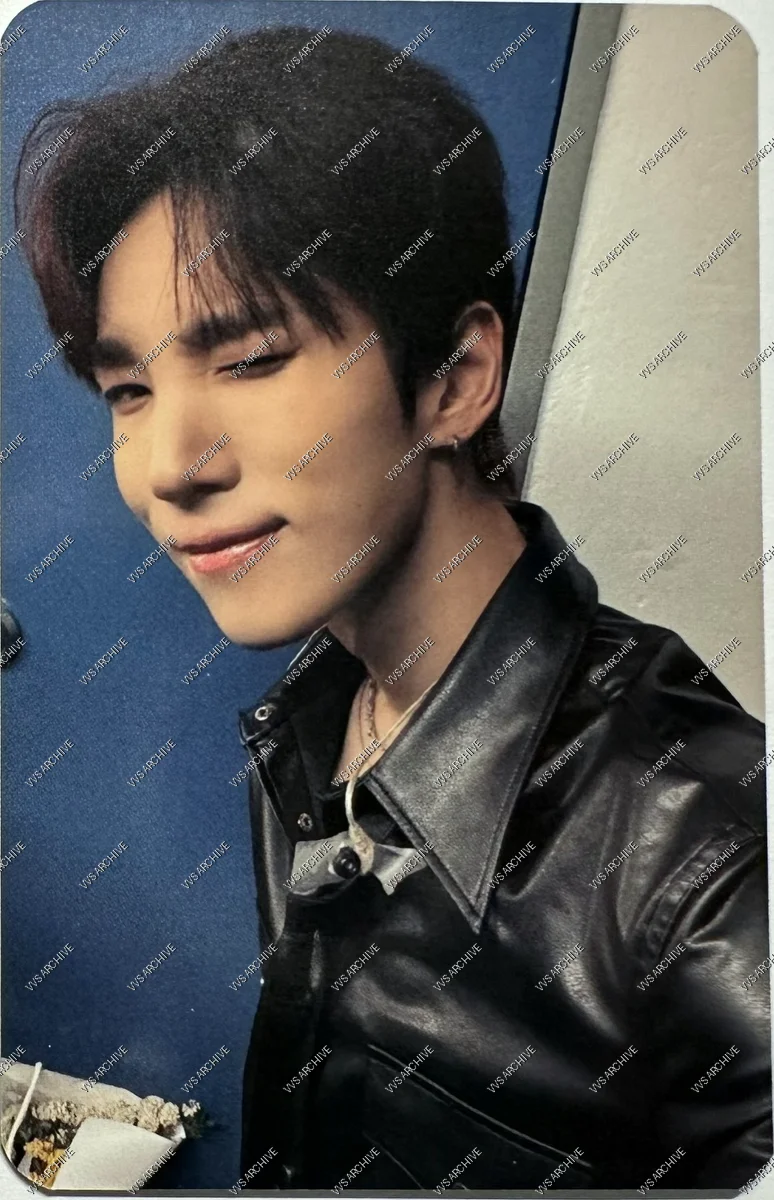
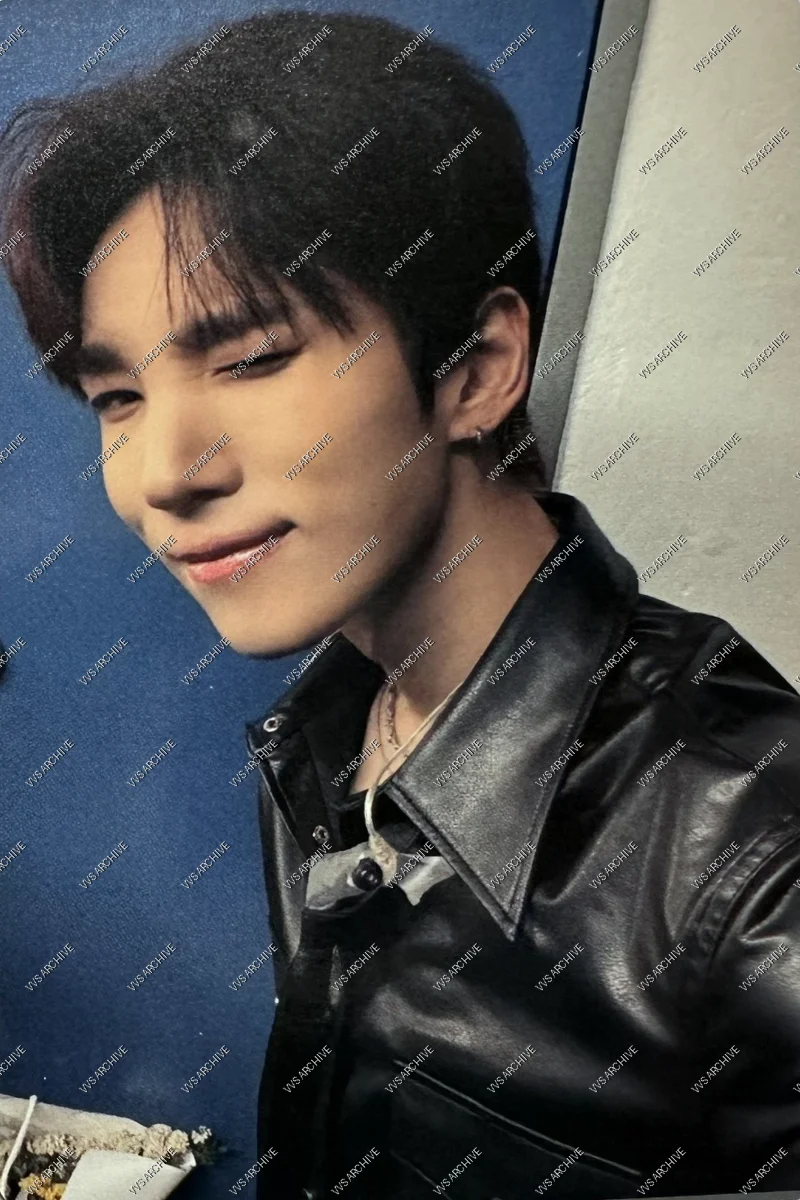
fix dim for watermark

diff --git a/scripts/card_process.py b/scripts/card_process.py
@@ -1,13 +1,10 @@
-import cv2
 import os
+import cv2
 import numpy as np
 from PIL import Image, ImageDraw, ImageFont
 
 TARGET_ASPECT_RATIO = 55.0 / 85.0
-ASPECT_RATIO_TOLERANCE = 0.18
 MIN_AREA_PERCENT = 0.25
-
-
 
 def order_points(pts):
     rect = np.zeros((4, 2), dtype="float32")
@@ -45,7 +42,6 @@ def center_crop_fallback(img):
         return img[offset_y:offset_y + target_h, :]
 
 def apply_white_balance(bgr_img):
-    """Apply simple Gray World white balance algorithm."""
     result = bgr_img.astype(np.float32)
     average_b = np.mean(result[:, :, 0])
     average_g = np.mean(result[:, :, 1])
@@ -58,8 +54,7 @@ def apply_white_balance(bgr_img):
     
     return np.clip(result, 0, 255).astype(np.uint8)
 
-def crop_card(image_path, debug_dir="debug_output"):
-    """Crop photocard using robust contour bounding box."""
+def crop_card(image_path):
     img = cv2.imread(image_path)
     if img is None:
         raise ValueError(f"Unable to read image at: {image_path}")
@@ -70,29 +65,35 @@ def crop_card(image_path, debug_dir="debug_output"):
     gray = cv2.cvtColor(img, cv2.COLOR_BGR2GRAY)
     blurred = cv2.GaussianBlur(gray, (5, 5), 0)
     
-    # 降低門檻或直接用 Otsu 二值化找出卡片主體
     _, thresh = cv2.threshold(blurred, 0, 255, cv2.THRESH_BINARY_INV + cv2.THRESH_OTSU)
+    edged = cv2.Canny(blurred, 30, 150)
+    combined = cv2.bitwise_or(thresh, edged)
     
-    # 閉運算填補卡片內部雜訊
-    kernel = cv2.getStructuringElement(cv2.MORPH_RECT, (7, 7))
-    closed = cv2.morphologyEx(thresh, cv2.MORPH_CLOSE, kernel, iterations=3)
+    kernel = np.ones((5, 5), np.uint8)
+    closed = cv2.morphologyEx(combined, cv2.MORPH_CLOSE, kernel, iterations=3)
     
     contours, _ = cv2.findContours(closed.copy(), cv2.RETR_EXTERNAL, cv2.CHAIN_APPROX_SIMPLE)
     
     card_crop = None
+    
     if contours:
         largest_c = max(contours, key=cv2.contourArea)
-        if cv2.contourArea(largest_c) > (img_area * MIN_AREA_PERCENT):
-            # 取得最小外接矩形（支援旋轉）
-            rect = cv2.minAreaRect(largest_c)
-            box = cv2.boxPoints(rect)
-            box = np.intp(box)
+        if cv2.contourArea(largest_c) > (img_area * 0.15):
+            peri = cv2.arcLength(largest_c, True)
+            approx = cv2.approxPolyDP(largest_c, 0.02 * peri, True)
             
-            warped = four_point_transform(img, box.astype("float32"))
+            if len(approx) == 4:
+                pts = approx.reshape(4, 2).astype("float32")
+            else:
+                rect = cv2.minAreaRect(largest_c)
+                box = cv2.boxPoints(rect)
+                pts = box.astype("float32")
+                
+            warped = four_point_transform(img, pts)
             crop_h, crop_w = warped.shape[:2]
             ratio = min(crop_w, crop_h) / max(crop_w, crop_h)
             
-            if (TARGET_ASPECT_RATIO - 0.25) <= ratio <= (TARGET_ASPECT_RATIO + 0.25):
+            if 0.4 <= ratio <= 0.9:
                 card_crop = warped
 
     if card_crop is None:
@@ -103,15 +104,10 @@ def crop_card(image_path, debug_dir="debug_output"):
         
     return card_crop
 
+def apply_watermark(bgr_image, watermark_text="VVS ARCHIVE"):
+    output_height, output_width = bgr_image.shape[:2]
     
-def apply_watermark(bgr_image, watermark_text="VVS ARCHIVE", output_height=1200):
-    """Apply repeating diagonal watermark to the image."""
-    h, w = bgr_image.shape[:2]
-    output_width = int(output_height * (w / float(h)))
-    resized_bgr = cv2.resize(bgr_image, (output_width, output_height), interpolation=cv2.INTER_LANCZOS4)
-    balanced_bgr = apply_white_balance(resized_bgr)
-    
-    rgb = cv2.cvtColor(balanced_bgr, cv2.COLOR_BGR2RGB)
+    rgb = cv2.cvtColor(bgr_image, cv2.COLOR_BGR2RGB)
     base_img = Image.fromarray(rgb).convert("RGBA")
     watermark_layer = Image.new("RGBA", (output_width, output_height), (0, 0, 0, 0))
     
@@ -145,16 +141,8 @@ def process_card_image(input_path, card_id, output_dir="public/cards"):
     try:
         cropped_bgr = crop_card(input_path)
         balanced_bgr = apply_white_balance(cropped_bgr)
-        
-        # 3. 統一縮放到標準大小（例如固定寬度或長寬，確保後續浮水印比例一致）
-        # 假設這裡將轉為 PIL 進行標準化尺寸調整
-        img_pil = Image.fromarray(cv2.cvtColor(balanced_bgr, cv2.COLOR_BGR2RGB))
-        standard_width = 800  # 請依你的標準卡片寬度調整
-        w_percent = (standard_width / float(img_pil.size[0]))
-        h_size = int(float(img_pil.size[1]) * float(w_percent))
-        resized_pil = img_pil.resize((standard_width, h_size), Image.Resampling.LANCZOS)
-
-        final_pil = apply_watermark(balanced_bgr)
+        standardized_bgr = cv2.resize(balanced_bgr, (800, 1200), interpolation=cv2.INTER_LANCZOS4)
+        final_pil = apply_watermark(standardized_bgr)
         
         os.makedirs(output_dir, exist_ok=True)
         output_path = os.path.join(output_dir, f"{card_id}.webp")
@@ -163,55 +151,3 @@ def process_card_image(input_path, card_id, output_dir="public/cards"):
     except Exception as e:
         print(f"Error processing card image {card_id}: {e}")
         return None
-
-def debug_crop_card(image_path, debug_dir="debug_output"):
-    """暫時的 Debug 函式：輸出邊緣檢測與輪廓抓取的中間過程圖片"""
-    os.makedirs(debug_dir, exist_ok=True)
-    img = cv2.imread(image_path)
-    if img is None:
-        print(f"無法讀取圖片: {image_path}")
-        return
-    
-    h, w = img.shape[:2]
-    img_area = h * w
-    
-    gray = cv2.cvtColor(img, cv2.COLOR_BGR2GRAY)
-    blurred = cv2.GaussianBlur(gray, (5, 5), 0)
-    edged = cv2.Canny(blurred, 30, 120)
-    
-    kernel = cv2.getStructuringElement(cv2.MORPH_RECT, (3, 3))
-    dilated = cv2.dilate(edged, kernel, iterations=2)
-    
-    base_name = os.path.splitext(os.path.basename(image_path))[0]
-    cv2.imwrite(os.path.join(debug_dir, f"{base_name}_gray.jpg"), gray)
-    cv2.imwrite(os.path.join(debug_dir, f"{base_name}_blurred.jpg"), blurred)
-    cv2.imwrite(os.path.join(debug_dir, f"{base_name}_edged.jpg"), edged)
-    cv2.imwrite(os.path.join(debug_dir, f"{base_name}_dilated.jpg"), dilated)
-    
-    contours, _ = cv2.findContours(dilated.copy(), cv2.RETR_EXTERNAL, cv2.CHAIN_APPROX_SIMPLE)
-    contours = sorted(contours, key=cv2.contourArea, reverse=True)
-    
-    debug_contours_img = img.copy()
-    for i, c in enumerate(contours[:5]):  # 繪製前 5 大輪廓
-        area = cv2.contourArea(c)
-        peri = cv2.arcLength(c, True)
-        approx = cv2.approxPolyDP(c, 0.02 * peri, True)
-        
-        # 綠色代表剛好 4 個頂點，紅色代表其他形狀
-        color = (0, 255, 0) if len(approx) == 4 else (0, 0, 255)
-        cv2.drawContours(debug_contours_img, [approx], -1, color, 3)
-        print(f"輪廓 #{i}: 面積={area}, 頂點數={len(approx)}")
-        
-    cv2.imwrite(os.path.join(debug_dir, f"{base_name}_contours.jpg"), debug_contours_img)
-    print(f"Debug 圖片已輸出至 {debug_dir}/ 資料夾")
-
-if __name__ == "__main__":
-    import os
-    # 定義專案根目錄的上一層 (GitHub/)
-    root_dir = os.path.dirname(os.path.dirname(os.path.dirname(os.path.abspath(__file__))))
-    test_img = os.path.join(root_dir, "raw_incoming", "swy-260712_2-hs.jpg")
-    
-    if os.path.exists(test_img):
-        debug_crop_card(test_img)
-    else:
-        print(f"找不到測試圖片: {test_img}")

diff --git a/scripts/local_pipeline.py b/scripts/local_pipeline.py
@@ -71,7 +71,7 @@ def process_pipeline():
                 if not local_img_path:
                     raise Exception("Image processing returned None")
                                 
-                card_data = parse_card_metadata(card_id, category=category)
+                card_data = parse_card_metadata(card_id, category="")
                 cards_data.append(card_data)
 
                 shutil.move(file_path, os.path.join(DONE_DIR, filename))
@@ -114,10 +114,10 @@ def process_pipeline():
                 card_data = parse_card_metadata(card_id, category=category)
                 cards_data.append(card_data)
 
-                shutil.move(file_path, os.path.join(DONE_DIR, filename))
-                print(f"   成功處理 {card_id}")
+                #shutil.move(file_path, os.path.join(DONE_DIR, filename))
+                print(f"   ✅ {card_id}")
             except Exception as e:
-                print(f"   處理失敗 {filename}: {e}")
+                print(f"   ❌ {filename}: {e}")
 
     # 寫入暫存檔 cards_staging.json
     json_str = json.dumps(cards_data, cls=CompactEncoder, ensure_ascii=False, indent=2)
